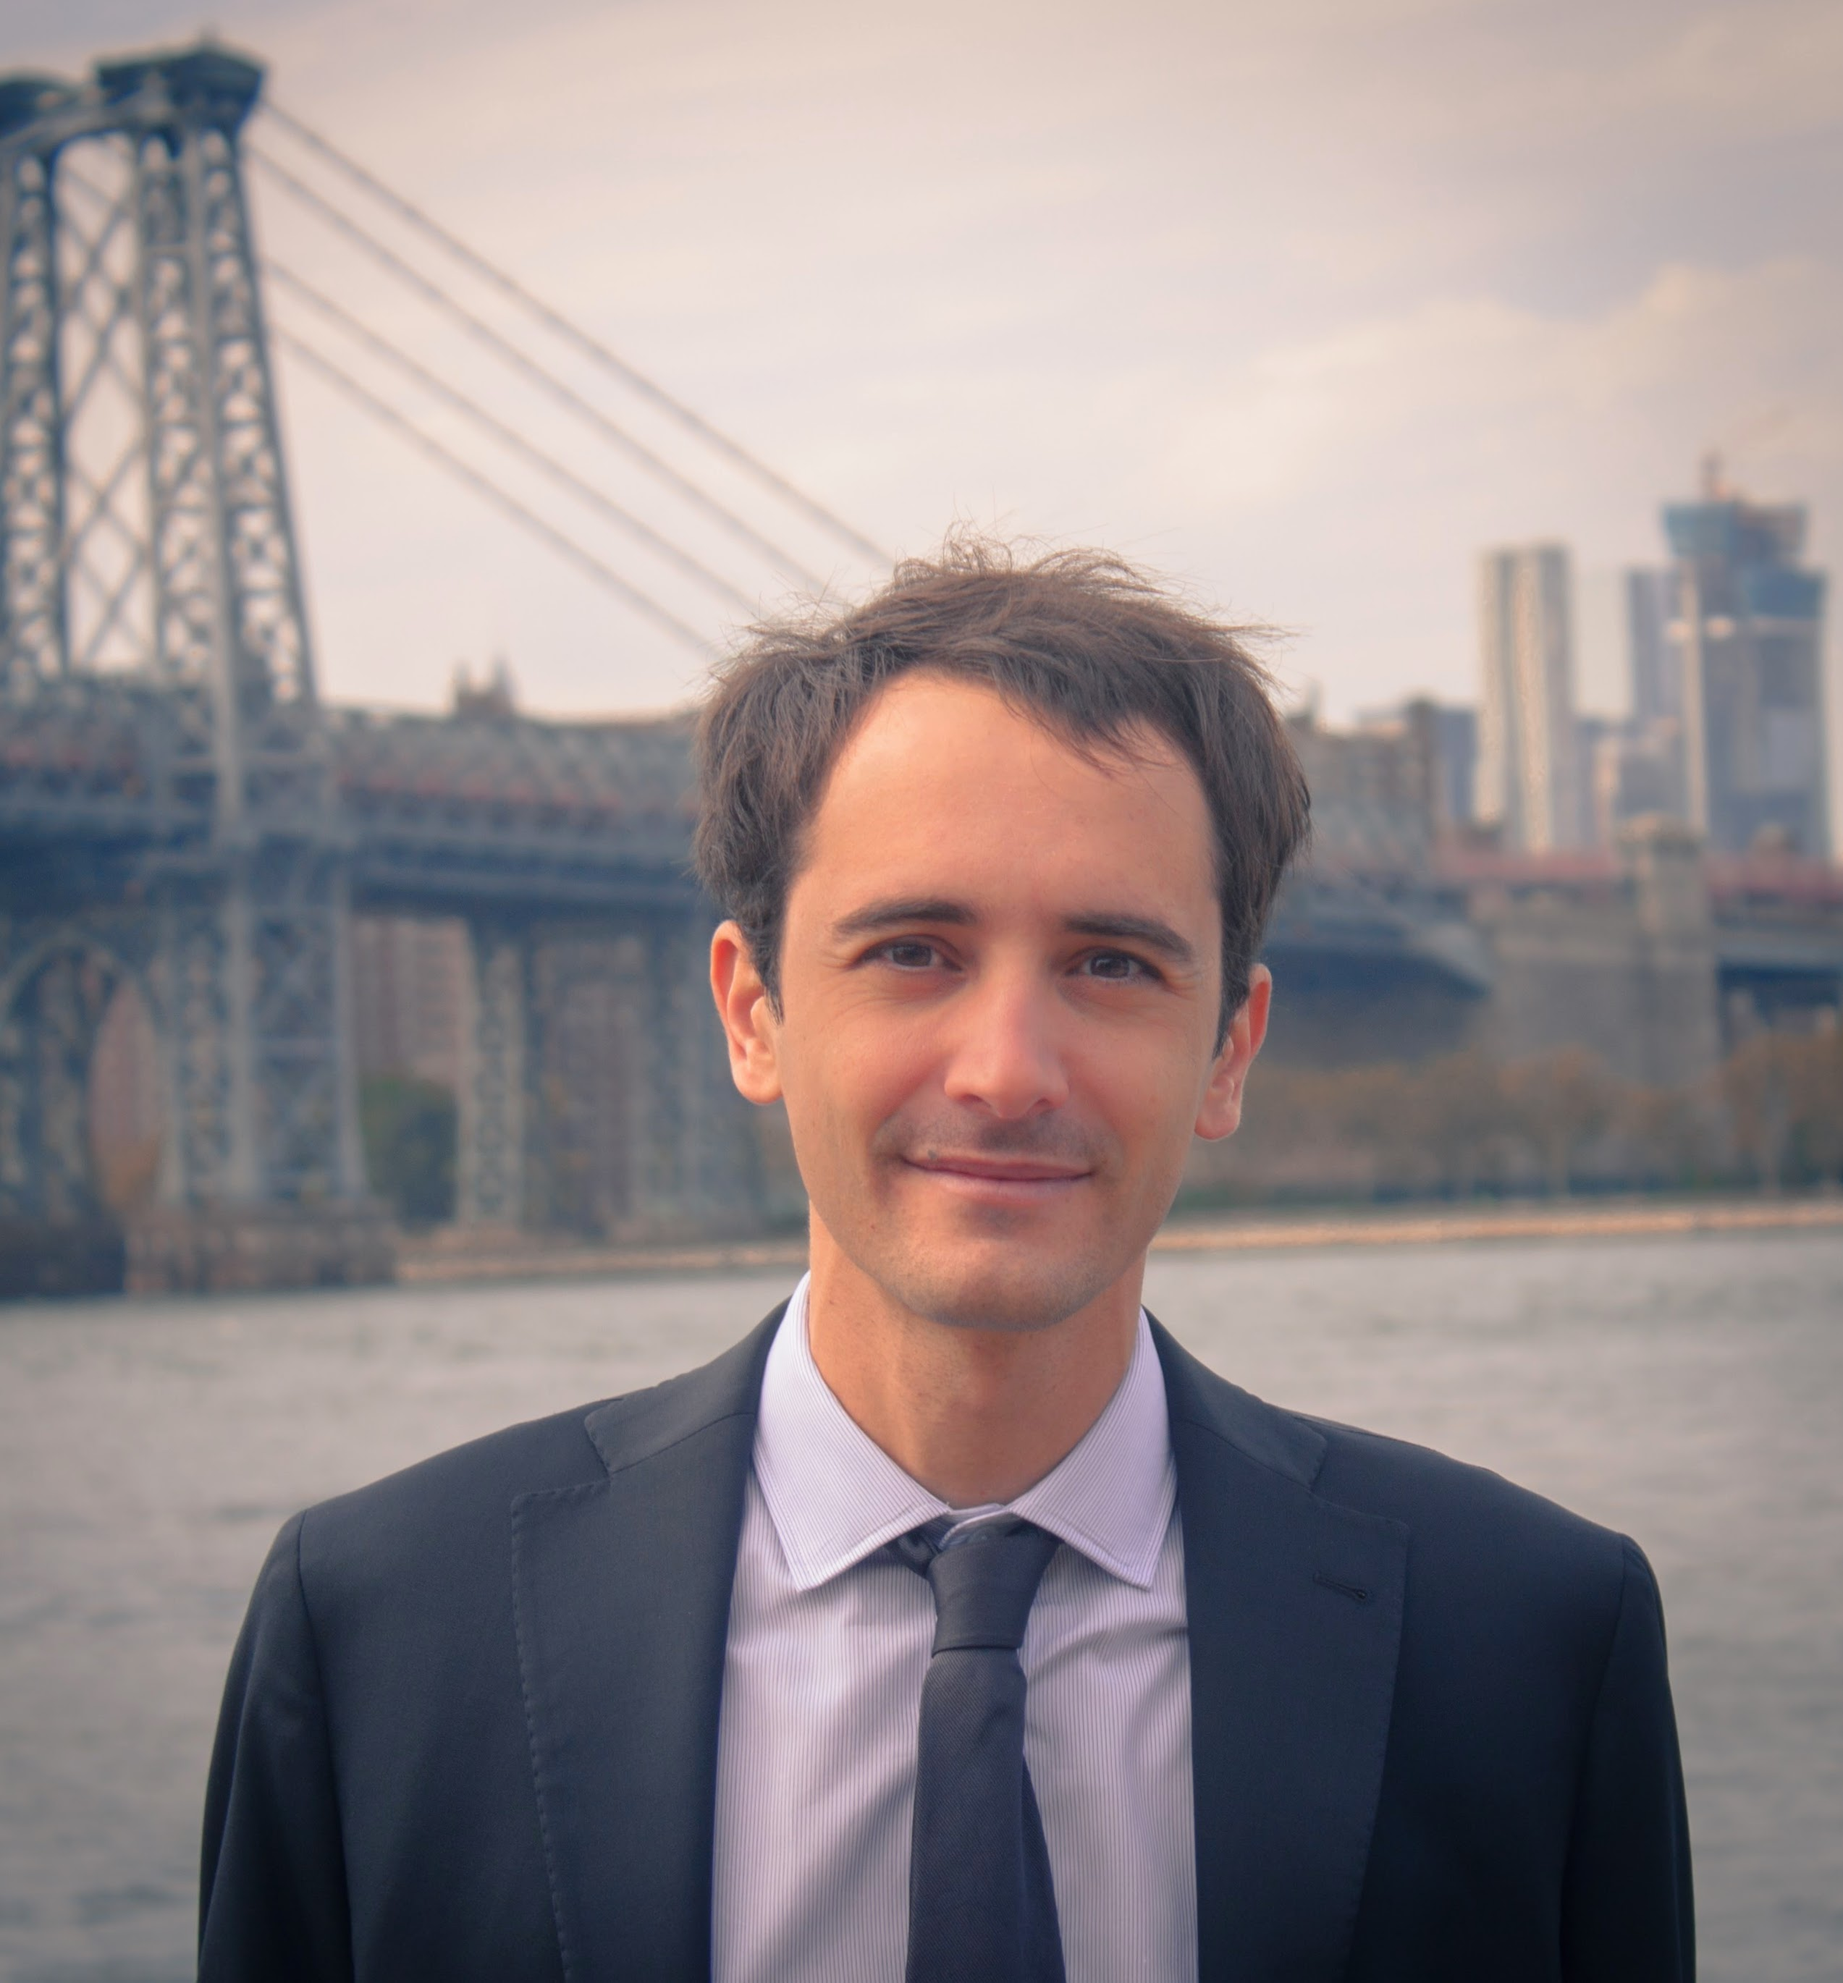
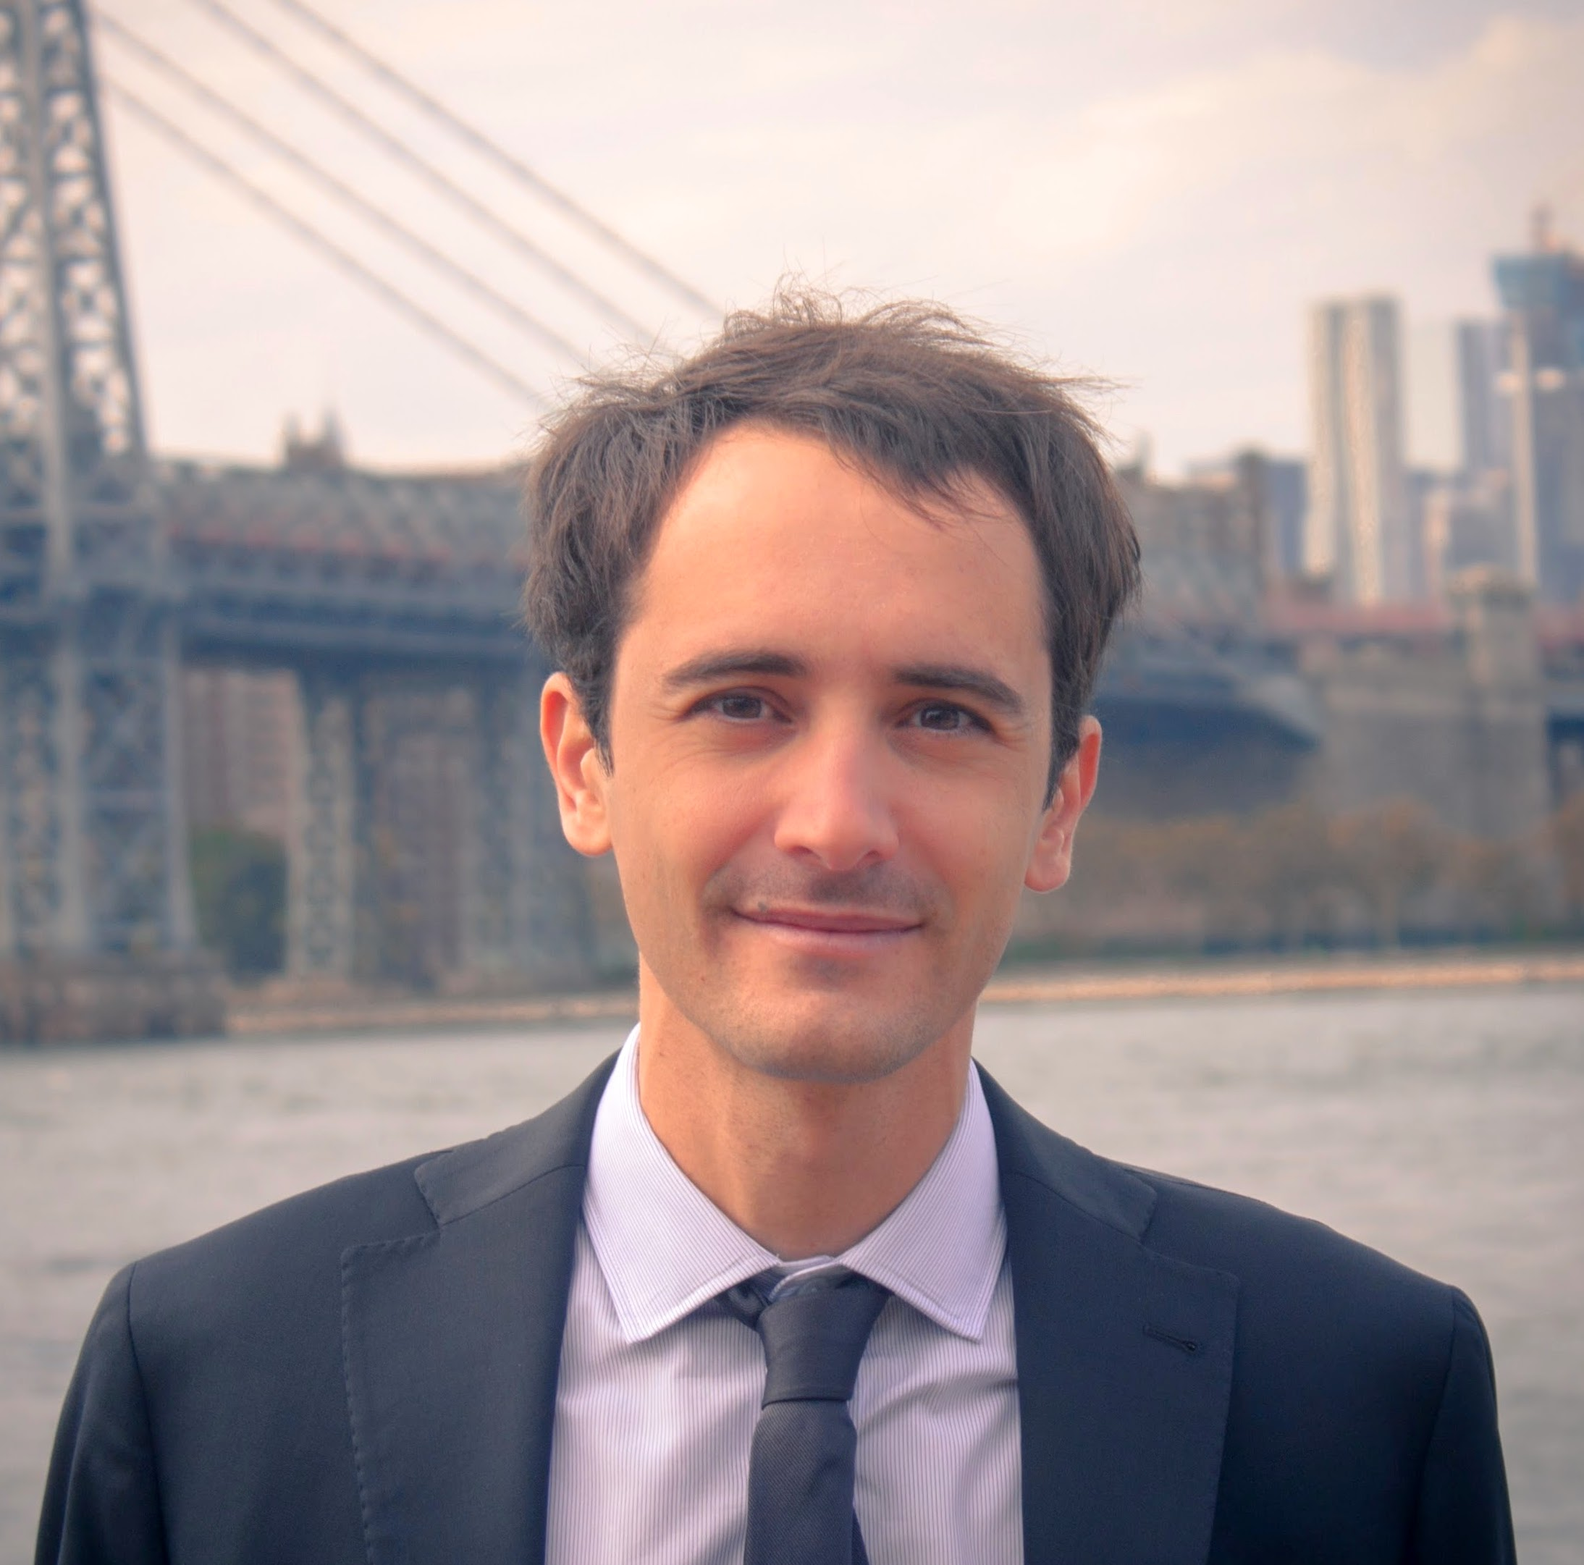
new picture

diff --git a/index.html b/index.html
@@ -88,7 +88,6 @@ home</span>
     <header class="intro">
         <div class="intro-body">
             <div class="container">
-                     <img  src="img/profile.jpg" style="border-radius:30px;border: 2px solid white; width: 14%;  height: auto; margin-bottom: 30px;margin-top:120px; margin-bottom:50px"> 
                 <div class="row" >
 
 
@@ -97,10 +96,16 @@ home</span>
 
                     <div class="col-md-8 col-md-offset-2" style="text-align: left;">
 
-                        <h1 class="brand-heading" style="color:#303030;border-bottom: solid 0px #303030; margin-bottom: 20px; padding-top:0px; font-size: 28pt;text-align: center;  letter-spacing: 0px">Jacopo Perego</h1>
+
+
+                        <h1 class="brand-heading" style="color:#303030;border-bottom: solid 0px #303030; margin-bottom: 20px; margin-top: 200px; padding-top:0px; font-size: 28pt;text-align: center;  letter-spacing: 0px">
+                     <img  src="img/profile.jpg" style="opacity: 0.9;border-radius:130px;border: 0px solid #3B5998; width: 25%; margin-bottom: 0px;margin-top:0px; margin-bottom:0px"><br>
+
+
+                        <div style="margin-top: 40px">Jacopo Perego</div></h1>
+
+
                         <center>
-
-
                         <p  style="color:#303030; background: white;border-radius:40px; width: 70%; padding:0px">
                             
                         </p>
